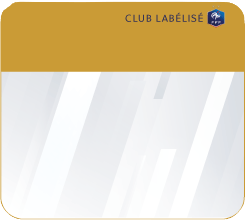
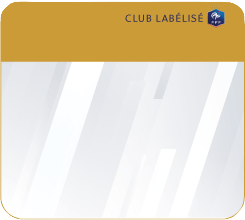
card label ok

diff --git a/src/components/Clean/Cards/Cards.css b/src/components/Clean/Cards/Cards.css
@@ -179,7 +179,7 @@
 
 
 .cardResultLabel .column2 {
-    height: 180px;
+    height: 150px;
     width: 230px;
     display: flex;
     flex-direction: column;
@@ -201,7 +201,7 @@
   }
 
 .cardResultLabel .column1 {
-    height: 180px;
+    height: 150px;
 }
 
 /* 
